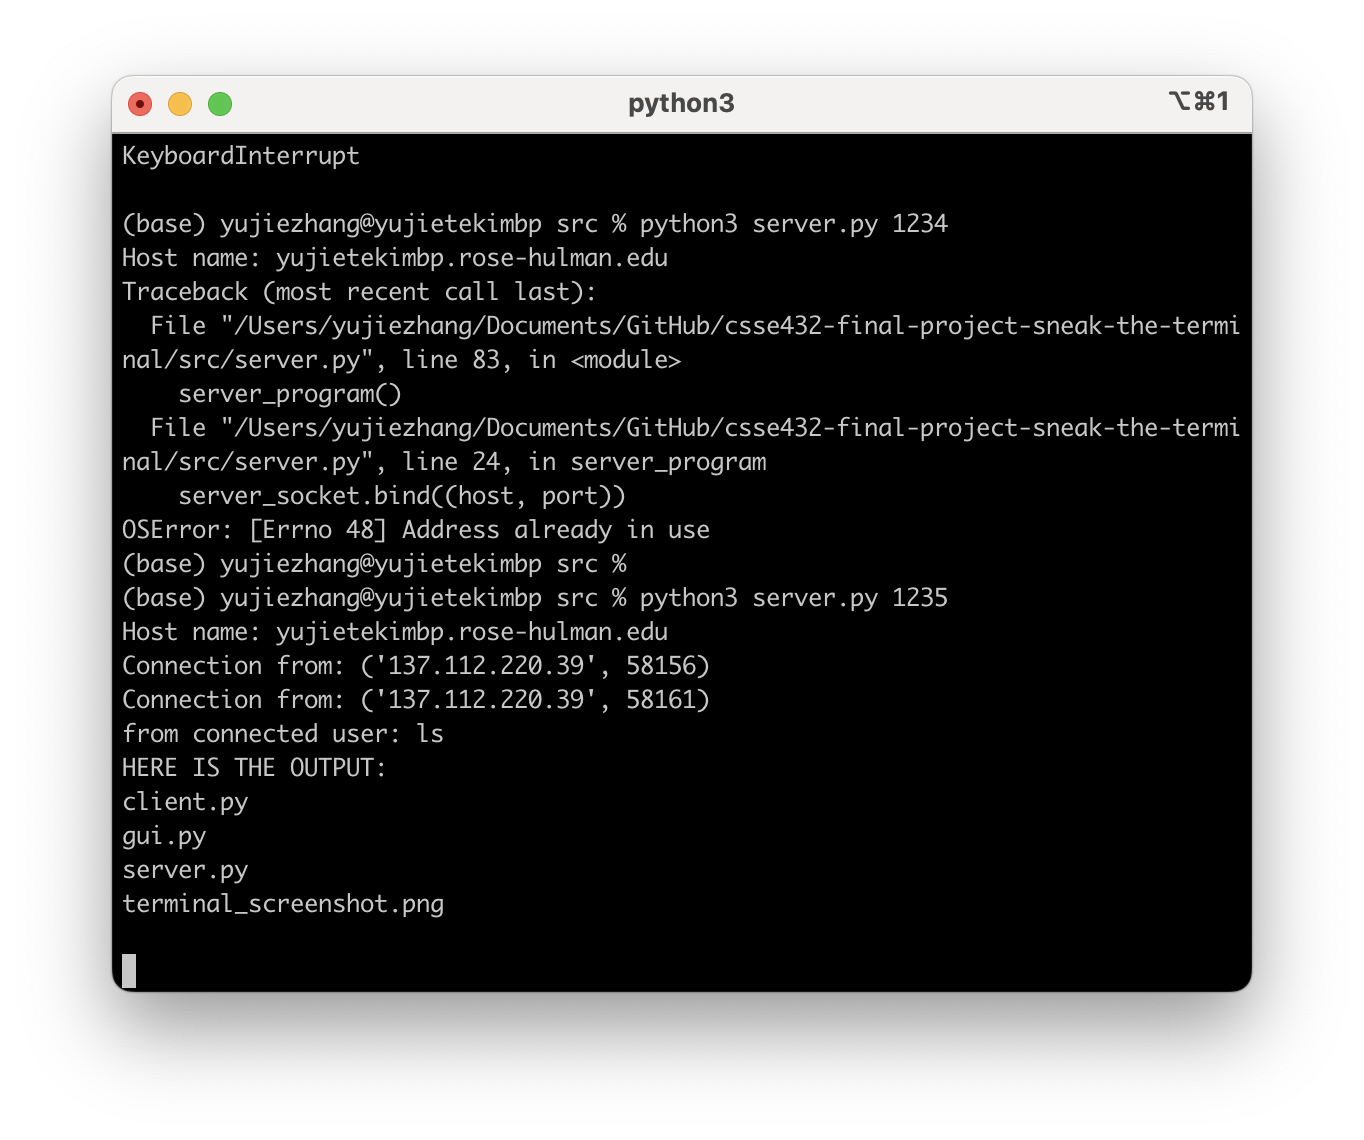
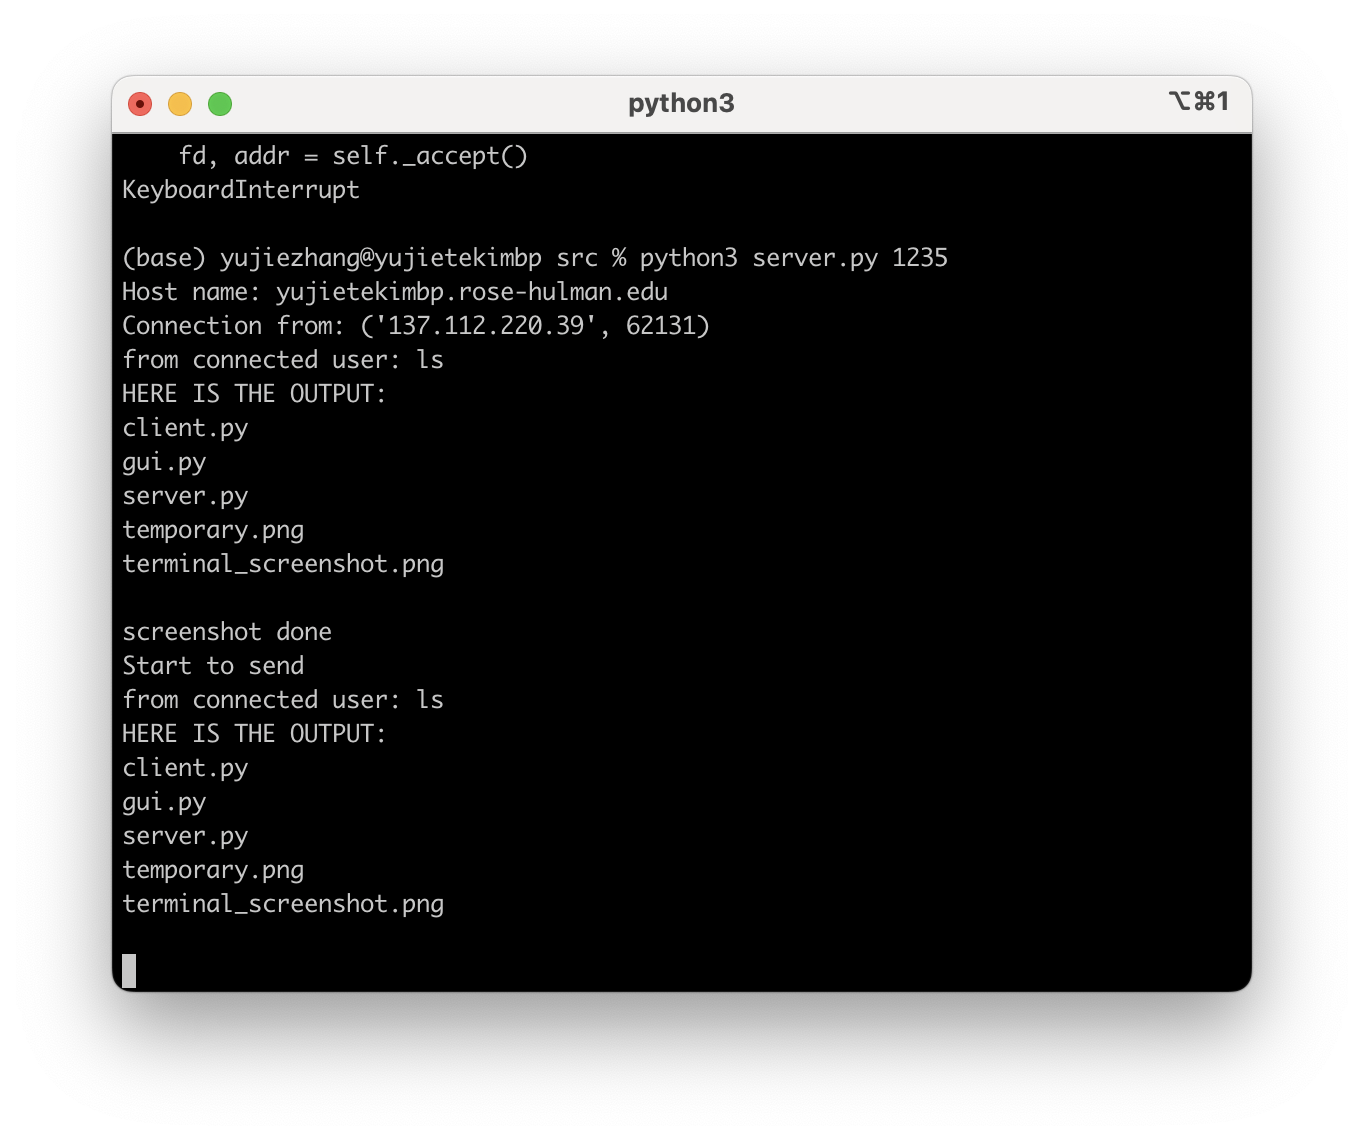
commit

Changed region(s): [[0.0924, 0.1228, 0.893, 0.7675], [0.5543, 0.5219, 0.6466, 0.5526]]

diff --git a/src/client.py b/src/client.py
@@ -2,11 +2,15 @@ import socket
 import sys
 from PIL import Image
 import os
+from imgurpython import ImgurClient
 
-ASCII_CHARS_DETAIL = "@%#*+=-:. "
-ASCII_CHARS_EXTRA_DETAIL = "@%#*+=-:.~^,`'\"<>i!lI;:,_-?][}{1)(|\\/tfjrxnuvczXYUJCLQ0OZmwqpdbkhao*#MW&8%B@$"
-ASCII_CHARS_ULTRA_DETAIL = "@%#*+=-:.~^,`'\"<>i!lI;:,_-?][}{1)(|\\/tfjrxnuvczXYUJCLQ0OZmwqpdbkhao*#MW&8%B@$"
+# ASCII_CHARS_DETAIL = "@%#*+=-:. "
+# ASCII_CHARS_EXTRA_DETAIL = "@%#*+=-:.~^,`'\"<>i!lI;:,_-?][}{1)(|\\/tfjrxnuvczXYUJCLQ0OZmwqpdbkhao*#MW&8%B@$"
+# ASCII_CHARS_ULTRA_DETAIL = "@%#*+=-:.~^,`'\"<>i!lI;:,_-?][}{1)(|\\/tfjrxnuvczXYUJCLQ0OZmwqpdbkhao*#MW&8%B@$"
 
+client_id = 'c1ad9ed60abff73'
+
+client_secret = 'bdeeda763017ee2db235ec38cd6912193bd888ce'
 
 def client_program():
     if(len(sys.argv) != 3):
@@ -88,32 +92,48 @@ def client_program():
 
         #save the picture received from the server and get its filepath
         picture_path = save_png_data(data, filename, client_socket)
+    # Initialize the Imgur client
 
+        client = ImgurClient(client_id, client_secret)
+
+
+
+        # Upload the image
+
+        image_path = picture_path # Replace with the path to your image
+        uploaded_image = client.upload_from_path(image_path, anon=True)
+
+
+
+        # Get the uploaded image link
+        image_link = uploaded_image['link']
+
+        print("Image uploaded successfully. Link:", image_link)
         #Displaying the ASCIIart with the provided picture path
-        display_ASCIIart(picture_path)
+        # display_ASCIIart(picture_path)
         
 
-        print('Received from server: ' + data)  # show in terminal
+        # print('Received from server: ' + data)  # show in terminal
 
         message = input(" -> ")  # again take input
         print(message)
     client_socket.close()  # close the connection
 
-def resize_image(image, new_width=100):
-    width, height = image.size
-    aspect_ratio = float(height) / float(width)
-    new_height = int(aspect_ratio * new_width * 0.55)
-    resized_image = image.resize((new_width, new_height))
-    return resized_image
+# def resize_image(image, new_width=100):
+#     width, height = image.size
+#     aspect_ratio = float(height) / float(width)
+#     new_height = int(aspect_ratio * new_width * 0.55)
+#     resized_image = image.resize((new_width, new_height))
+#     return resized_image
 
-def image_to_ascii(image):
-    image = image.convert("L")  # Convert to grayscale
-    pixels = image.getdata()
-    ascii_str = ""
-    for pixel_value in pixels:
-        ascii_index = int(pixel_value / 256 * len(ASCII_CHARS_ULTRA_DETAIL))
-        ascii_str += ASCII_CHARS_ULTRA_DETAIL[ascii_index]
-    return ascii_str
+# def image_to_ascii(image):
+#     image = image.convert("L")  # Convert to grayscale
+#     pixels = image.getdata()
+#     ascii_str = ""
+#     for pixel_value in pixels:
+#         ascii_index = int(pixel_value / 256 * len(ASCII_CHARS_ULTRA_DETAIL))
+#         ascii_str += ASCII_CHARS_ULTRA_DETAIL[ascii_index]
+#     return ascii_str
 
 def save_png_data(data, filename, socket):
     # Get the current directory
@@ -141,23 +161,23 @@ def save_png_data(data, filename, socket):
 
     return filepath
 
-def display_ASCIIart(file_path):
-    try:
-            #opening the image
-        image = Image.open(file_path)
-    except Exception as e:
-        print(f"Unable to open image file: {e}")
-        return
+# def display_ASCIIart(file_path):
+#     try:
+#             #opening the image
+#         image = Image.open(file_path)
+#     except Exception as e:
+#         print(f"Unable to open image file: {e}")
+#         return
         
-    image = resize_image(image)
-    ascii_str = image_to_ascii(image)
+#     image = resize_image(image)
+#     ascii_str = image_to_ascii(image)
 
-    #process of displaying ASCII art in the terminal 
-    width = image.width
-    ascii_str_len = len(ascii_str)
-    ascii_img = [ascii_str[i:i + width] for i in range(0, ascii_str_len, width)]
-    ascii_img = "\n".join(ascii_img)
-    print(ascii_img)
+#     #process of displaying ASCII art in the terminal 
+#     width = image.width
+#     ascii_str_len = len(ascii_str)
+#     ascii_img = [ascii_str[i:i + width] for i in range(0, ascii_str_len, width)]
+#     ascii_img = "\n".join(ascii_img)
+#     print(ascii_img)
 
 
 
